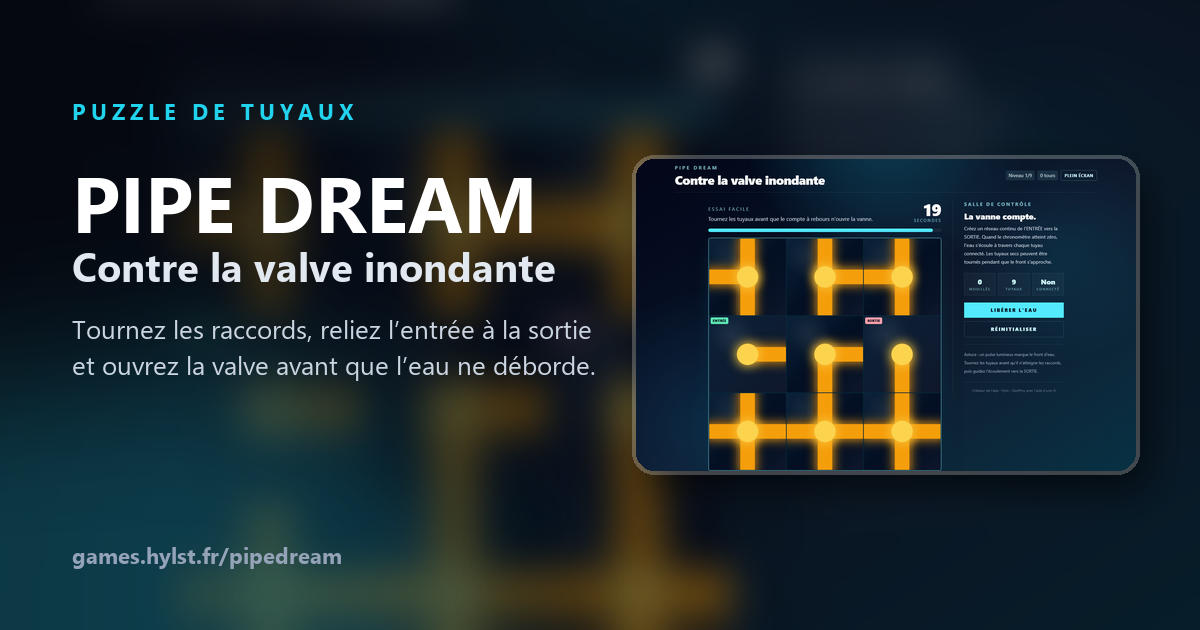
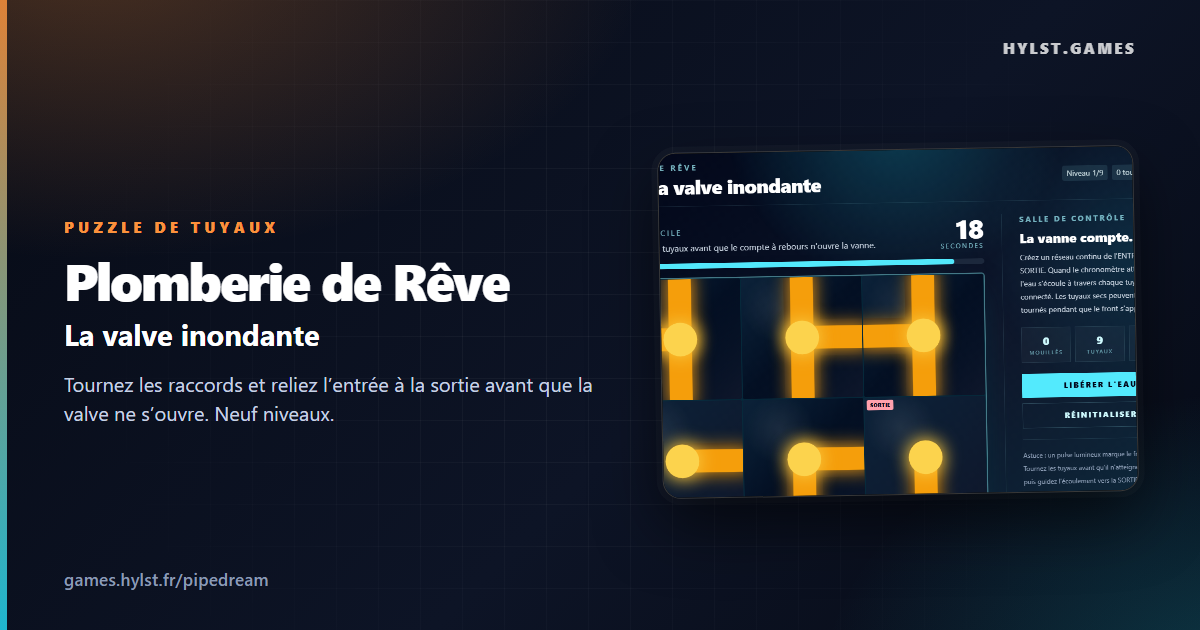
Renommage : Plomberie de Rêve

diff --git a/index.html b/index.html
@@ -3,20 +3,20 @@
   <head>
     <meta charset="UTF-8" />
     <meta name="viewport" content="width=device-width, initial-scale=1.0" />
-    <title>Pipe Dream : la valve inondante</title>
+    <title>Plomberie de Rêve : la valve inondante</title>
     <meta name="description" content="Un puzzle de tuyaux contre le temps : tournez les raccords, construisez un réseau continu de l'entrée à la sortie et laissez l'eau passer. Neuf niveaux et un chrono." />
     <meta name="keywords" content="puzzle de tuyaux, jeu html5, jeu gratuit, jeu français, hylst, games" />
     <meta property="og:type" content="website" />
-    <meta property="og:title" content="Pipe Dream : la valve inondante" />
+    <meta property="og:title" content="Plomberie de Rêve : la valve inondante" />
     <meta property="og:description" content="Tournez les tuyaux, reliez l'entrée à la sortie et ouvrez la valve avant que l'eau ne déborde." />
-    <meta property="og:image" content="https://games.hylst.fr/pipedream/og-image.png" />
+    <meta property="og:image" content="https://games.hylst.fr/pipedream/og-image.png?v=2" />
     <meta property="og:url" content="https://games.hylst.fr/pipedream/" />
     <meta property="og:site_name" content="Hylst.Games" />
     <meta property="og:locale" content="fr_FR" />
     <meta name="twitter:card" content="summary_large_image" />
-    <meta name="twitter:title" content="Pipe Dream : la valve inondante" />
+    <meta name="twitter:title" content="Plomberie de Rêve : la valve inondante" />
     <meta name="twitter:description" content="Tournez les tuyaux, reliez l'entrée à la sortie et ouvrez la valve avant que l'eau ne déborde." />
-    <meta name="twitter:image" content="https://games.hylst.fr/pipedream/og-image.png" />
+    <meta name="twitter:image" content="https://games.hylst.fr/pipedream/og-image.png?v=2" />
     <meta name="robots" content="index, follow" />
     <meta name="theme-color" content="#05141a" />
     <link rel="canonical" href="https://games.hylst.fr/pipedream/" />

diff --git a/src/App.tsx b/src/App.tsx
@@ -589,7 +589,7 @@ export default function App() {
       <div className="relative mx-auto flex min-h-screen w-full max-w-7xl flex-col px-3 py-4 sm:px-6 lg:px-8">
         <header className="flex flex-col sm:flex-row sm:items-center sm:justify-between gap-3 border-b border-cyan-200/10 pb-4">
           <div>
-            <p className="text-sm font-semibold uppercase tracking-[0.32em] text-cyan-200/80">Pipe Dream</p>
+            <p className="text-sm font-semibold uppercase tracking-[0.32em] text-cyan-200/80">Plomberie de Rêve</p>
             <h1 className="mt-1 text-2xl font-black tracking-tight text-white sm:text-4xl">
               Contre la valve inondante
             </h1>

diff --git a/README.md b/README.md
@@ -1,12 +1,12 @@
-# Pipe Dream
+# Plomberie de Rêve
 
 **Contre la valve inondante.**
 
-Pipe Dream, le puzzle de tuyaux contre le temps : tournez les raccords, reliez l'entrée à la sortie et ouvrez la valve avant que l'eau ne déborde. Neuf niveaux.
+Plomberie de Rêve, le puzzle de tuyaux contre le temps : tournez les raccords, reliez l'entrée à la sortie et ouvrez la valve avant que l'eau ne déborde. Neuf niveaux.
 
 Joue ici : [games.hylst.fr/pipedream/](https://games.hylst.fr/pipedream/)
 
-![Pipe Dream](og-image.png)
+![Plomberie de Rêve](og-image.png)
 
 ## Comment on joue
 
